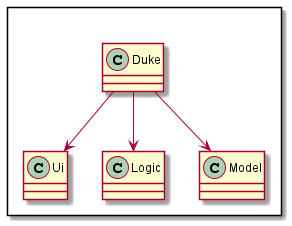
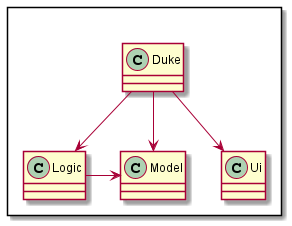
Update docs

diff --git a/docs/UserGuide.md b/docs/UserGuide.md
@@ -45,7 +45,7 @@ Format: `print`
 
 ### Action Commands
 
-Action commnads used in the application can be split into two categories, the [*circuit* commands](#circuit-commands), or the [*logic gate* commands](#logic-gate-commands). The two categories may use the same syntax for some commands, but the application will continuously track the current `template` that is being worked on and automatically use the correct command to execute. Thus, if there is no current `template`, then the other commands used will not be available to run.
+Action commands used in the application can be split into two categories, the [*circuit* commands](#circuit-commands), or the [*logic gate* commands](#logic-gate-commands). The two categories may use the same syntax for some commands, but the application will continuously track the current `template` that is being worked on and automatically use the correct command to execute. Thus, if there is no current `template`, then the other commands used will not be available to run.
 
 The commands involved with both categories are:
 
@@ -53,6 +53,11 @@ The commands involved with both categories are:
 * `set`
 * `add`
 * `calc`
+
+The format of commands below keep to the following.
+
+| :information_source: | Words in `UPPER_CASE` are parameters. |
+|----------------------|:-------------------------------------|
 
 #### Circuit Commands
 
@@ -172,9 +177,7 @@ Creates a logic gate `template`.
 Format: `template GATE`
 
 * Logic Gate `GATE` can be chosen from the following:
-    * `not`, `and`, `or`, `xor`, `nand`, `nor`, `xnor`
-
-
+    * `and`, `or`, `xor`, `nand`, `nor`, `xnor`
 
 Example of usage:
 
@@ -215,7 +218,11 @@ Expected Outcome:
 
 ##### Add component: `add`
 
-The application has the ability to combine multiple templates to generate more complicated boolean logic gate configurations. This command allows you to set an input to a *logic gate* `template`.
+The application has the ability to combine multiple templates to generate more complicated boolean logic gate configurations. This command allows you to set an input to a *logic gate* `template`. However, the depth of the deepest *logic gate* from the root *logic gate* cannot exceed 3.
+
+
+| :exclamation: | The `BooleanTemplate` `Gate` depth cannot exceed 3. |
+|---------------|:-------------------------------------|
 
 Format: `add INPUT GATE`
 
@@ -257,7 +264,7 @@ Expected Outcome:
   |       
   |---0
 
-The output of the above boolean logic gates is 0.
+The output of the above configuration is 0.
 ```
 
 ## FAQ

diff --git a/docs/AboutUs.md b/docs/AboutUs.md
@@ -2,8 +2,8 @@
 
 Display | Name | Github Profile | Portfolio 
 --------|:----:|:--------------:|:---------:
-![](https://avatars3.githubusercontent.com/u/57522870?s=460&u=8dd180701edf230c1bd905ff0d49b81d40785e1a&v=4) | Vishruti Ranjan | [Github](https://github.com/sevenseasofbri) | [Portfolio](docs/team/johndoe.md)
-![](https://avatars2.githubusercontent.com/u/53231968?s=460&u=43fad5fee043173a5c65db833d39c9c00c04549c&v=4) | Wira Azmoon | [Github](https://github.com/hughjazzman) | [Portfolio](docs/team/wira.md)
-![](https://via.placeholder.com/100.png?text=Photo) | Praveen Elango | [Github](https://github.com/PraveenElango) | [Portfolio](docs/team/johndoe.md)
-![](https://avatars2.githubusercontent.com/u/47025155?s=400&u=ce782a0a69f128f7fb409598101baeef34fd201e&v=4) | Dorian Fong | [Github](https://github.com/dorianfong98) | [Portfolio](docs/team/johndoe.md)
-![](https://avatars3.githubusercontent.com/u/60434719?v=4) | Dash Abhishek | [Github](https://github.com/oasisbeatle) | [Portfolio](docs/team/johndoe.md)
+![](https://avatars3.githubusercontent.com/u/57522870?s=460&u=8dd180701edf230c1bd905ff0d49b81d40785e1a&v=4) | Vishruti Ranjan | [Github](https://github.com/sevenseasofbri) | [Portfolio](team/johndoe.md)
+![](https://avatars2.githubusercontent.com/u/53231968?s=460&u=43fad5fee043173a5c65db833d39c9c00c04549c&v=4) | Wira Azmoon | [Github](https://github.com/hughjazzman) | [Portfolio](team/wira.md)
+![](https://avatars1.githubusercontent.com/u/37036833?s=400&u=2c0e2ed51f01d354f32fb3efd9e51a56aa273e8f&v=4) | Praveen Elango | [Github](https://github.com/PraveenElango) | [Portfolio](team/johndoe.md)
+![](https://avatars2.githubusercontent.com/u/47025155?s=400&u=ce782a0a69f128f7fb409598101baeef34fd201e&v=4) | Dorian Fong | [Github](https://github.com/dorianfong98) | [Portfolio](team/johndoe.md)
+![](https://avatars3.githubusercontent.com/u/60434719?v=4) | Dash Abhishek | [Github](https://github.com/oasisbeatle) | [Portfolio](team/johndoe.md)

diff --git a/docs/DeveloperGuide.md b/docs/DeveloperGuide.md
@@ -27,6 +27,7 @@ The `Ui` component
 
 ![LogicDiagram](diagrams/LogicClassDiagram.png)
 
+1. `Logic` stores a current `Template` object that represents the current circuit configuration.
 1. `Logic` uses the `Parser` class to parse the user command.
 1. This results in a `Command` object which is executed in `Duke`.
 1. The command execution can affect the `Model` (e.g. setting a value).
@@ -41,8 +42,8 @@ Given below is the Sequence Diagram for interactions within the `Logic` componen
 ![ModelDiagram](diagrams/ModelClassDiagram.png)
 
 The `Model`,
-
-* stores a current `Template` object that represents the current circuit configuration.
+* includes `CircuitTemplate` and `BooleanTemplate` that can represent the current `template` in [`Logic`](#logic-component).
+* has `Component` and `Gate` within the templates.
 * does not depend on any of the other three components.
 
 ## Product scope

diff --git a/docs/team/wira.md b/docs/team/wira.md
@@ -2,7 +2,10 @@
 
 ## Overview
 
-Handle Issues.
+* **Team lead**: Responsible for overall project coordination.
+* **Documentation** (short for ‘in charge of documentation’): Responsible for the quality of various project documents.
+* **PlantUML expert**: Helps other team member with matters related to PlantUML.
+* **In charge of `Parser`,`Ui` of the code**: In charge of the code that deals with parsing and UI.
 
 ### Summary of Contributions
 
